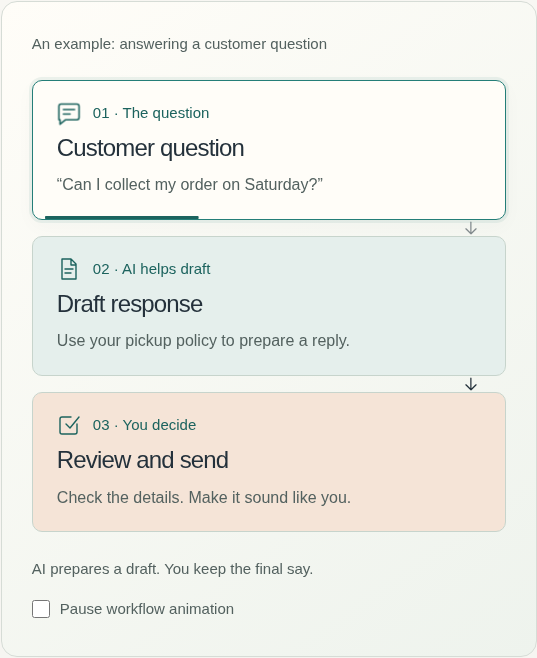
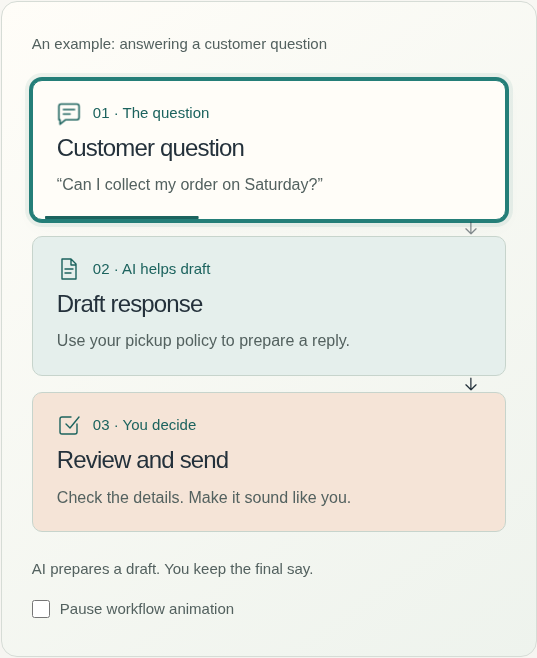
Thicken the active workflow animation outline

diff --git a/src/styles/global.css b/src/styles/global.css
@@ -1606,7 +1606,8 @@ h3 {
   27% {
     border-color: var(--teal);
     box-shadow:
-      0 0 0 3px #247e7814,
+      0 0 0 3px var(--teal),
+      0 0 0 7px #247e7814,
       0 6px 20px #24313b08;
   }
 }
